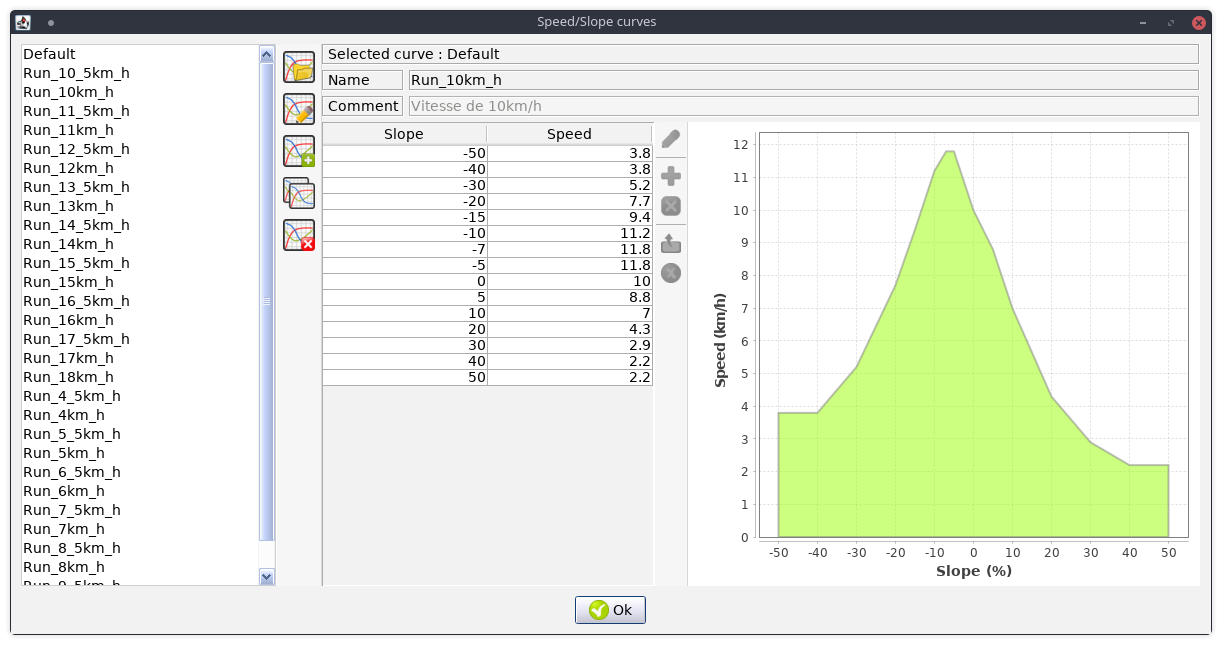
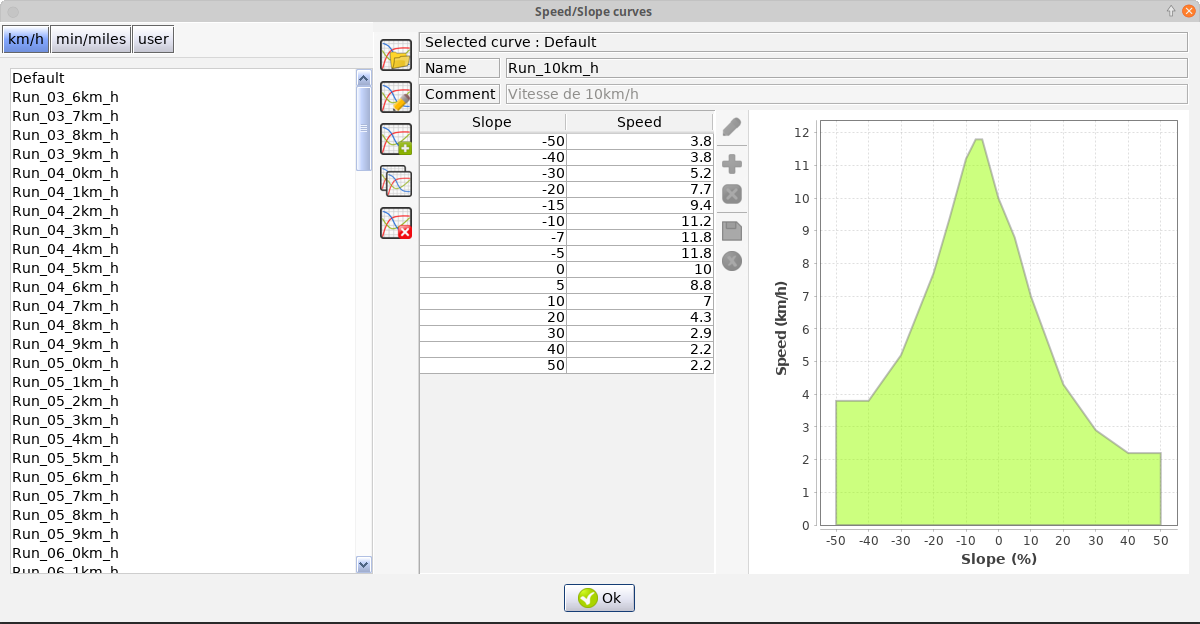
Doc modification search curve section

Changed region(s): [[0.0, 0.0, 1.0, 1.0], [0.2775, 0.883, 0.3083, 0.9439], [0.185, 0.883, 0.2467, 0.9135]]

diff --git a/doc/fr/md/04-Menus.md b/doc/fr/md/04-Menus.md
@@ -2,43 +2,46 @@
 
 ## Menu "Fichier"
 
-* **Ouvrir un fichier GPX** : Permet de charger un fichier au format GPX. Raccourci clavier: [MAJ+CTRL+O].
-
-* **Derniers fichiers GPX** : Permet l'affichage d'un sous-menu listant les 5 derniers fichiers GPX qui ont été ouvert. Un clic sur un de ces fichiers permet de l'ouvrir.
-
 * **Ouvrir un fichier CGX** : Permet de charger un fichier au format CGX. Raccourci clavier: [CTRL+O].
 
-* **Derniers fichiers CGX** : Permet l'affichage d'un sous-menu listant les 5 derniers fichiers CGX qui ont été ouvert. Un clic sur un de ces fichiers permet de l'ouvrir.
+* **Fichiers CGX récents...** : Permet l'affichage d'un sous-menu listant les 5 derniers fichiers CGX qui ont été ouvert. Un clic sur un de ces fichiers permet de l'ouvrir.
 
-* **Sauver CGX** : Permet de sauver les données du parcours au format CGX.
+* **Enregistrer en CGX** : Permet de sauver les données du parcours au format CGX.
 Toutes les données du parcours (difficultés, coefficient de fatigue, temps de ravitaillement....) sont sauvegardées. Raccourci clavier: [CTRL+S].
 
-* **Sauver GPX** : Permet de sauver les données du parcours au format GPX.
-Attention! Seules les données de latitude, de longitude, d'altitude et de temps sont sauvées.
-
-* **Sauver CSV** : Permet de sauver les données du parcours au format CSV.
-Ce fichier pourra être ouvert par un tableur comme Excel ou OpenOffice Calc.
-
-* **Importer un fichier GPX** : Permet d'insérer un fichier GPX au début ou à la fin du parcours actif.
-
-* **Importer un fichier CGX** : Permet d'insérer un fichier CGX au début ou à la fin du parcours actif.
-
-* **Sauver une partie du parcours en CGX** : Permet de sauver les lignes sélectionnées du tableau au format CGX.
+* **Enregistrer en CGX sous...** : Permet de sauver les données du parcours au format CGX. Une boite de dialogue permet de saisir le nom du fichier.
 Toutes les données du parcours (difficultés, coefficient de fatigue, temps de ravitaillement....) sont sauvegardées.
 
-* **Sauver une partie du parcours en GPX** : Permet de sauver les lignes sélectionnées du tableau au format GPX.
-Attention! Seules les données de latitude, de longitude, d'altitude et de temps sont sauvés.
+* **Ouvrir un fichier GPX** : Permet de charger un fichier au format GPX. Raccourci clavier: [MAJ+CTRL+O].
 
-* **Sauver une partie du parcours en CSV** : Permet de sauver les lignes sélectionnées du tableau au format CSV.
+* **Fichiers GPX récents...** : Permet l'affichage d'un sous-menu listant les 5 derniers fichiers GPX qui ont été ouvert. Un clic sur un de ces fichiers permet de l'ouvrir.
+
+* **Importer > Ajouter un fichier GPX au parcours** : Permet d'insérer un fichier GPX au début ou à la fin du parcours actif.
+
+* **Importer > Ajouter un fichier CGX au parcours** : Permet d'insérer un fichier CGX au début ou à la fin du parcours actif.
+
+* **Exporter > Exporter parcours en CSV** : Permet de sauver les données du parcours au format CSV.
 Ce fichier pourra être ouvert par un tableur comme Excel ou OpenOffice Calc.
 
-* **Importer des points** : Permet d'importer des points sauvegardés au format CGP.
+* **Exporter > Exporter parcours en GPX** : Permet de sauver les données du parcours au format GPX.
+Attention! Seules les données de latitude, de longitude, d'altitude et de temps sont sauvées.
 
-* **Exporter des points** : Permet de sauvegarder les points marqués dans un fichier au format CGP.
+* **Exporter > Sauver une partie du parcours en CGX** : Permet de sauver les lignes sélectionnées du tableau au format CGX.
+Toutes les données du parcours (difficultés, coefficient de fatigue, temps de ravitaillement....) sont sauvegardées.
 
-* **Exporter des tags en waypoints** : Permet de sauvegarder les tags sélectionnés dans un fichier GPX sous forme de waypoints. Cela permet d'avoir, sur les GPS, des informations complémentaires en plus des traces.
+* **Exporter > Sauver une partie du parcours en GPX** : Permet de sauver les lignes sélectionnées du tableau au format GPX.
+Attention! Seules les données de latitude, de longitude, d'altitude et de temps sont sauvés.
 
-* **Quitter Course Generator** : Permet d'arrêter l'exécution de **Course Generator**. raccourci clavier: [Alt+F4].
+* **Exporter > Sauver une partie du parcours en CSV** : Permet de sauver les lignes sélectionnées du tableau au format CSV.
+Ce fichier pourra être ouvert par un tableur comme Excel ou OpenOffice Calc.
+
+* **Marques > Importer...** : Permet d'importer des points sauvegardés au format CGP.
+
+* **Marques > Exporter...** : Permet de sauvegarder les points marqués dans un fichier au format CGP.
+
+* **Marques > Exporter comme waypoints** : Permet de sauvegarder les tags sélectionnés dans un fichier GPX sous forme de waypoints. Cela permet d'avoir, sur les GPS, des informations complémentaires en plus des traces.
+
+* **Quitter** : Permet d'arrêter l'exécution de **Course Generator**. raccourci clavier: [Alt+F4].
 
 ## Menu "Edition"
 
@@ -66,11 +69,15 @@ Ce fichier pourra être ouvert par un tableur comme Excel ou OpenOffice Calc.
 
 * **Définir un nouveau point de départ**: Permet, pour un circuit en boucle, de définir un nouveau point de départ.
 
+* **Filtrer les données d'altitude** : Ouvre une boite de dialogue permettant de corriger les altitudes en utilisant un filtre.
+
 * **Estimer le temps de parcours** : Permet de lancer le calcul afin de déterminer le temps de passage pour chaque point GPS du parcours. Raccourci clavier: [F5].
 
-* **Mise à jour des courbes standards** : Les courbes standards "Vitesse/Pente" vont être mise à jour avec les réglages par défaut. Cela est nécessaire si vous avez modifié une courbe standard et que vous voulez revenir en arrière. Cela est aussi nécessaire après une mise à jour logicielle qui introduit de nouvelles courbes. Cela n'affecte pas les courbes personnalisées.
+* **Rechercher  la courbe 'Vitesse/Pente' en fonction du temps final** : Ouvre une boite dialogue où, à partir du temps final voulu, le logiciel sélectionne la meilleure courbe 'Vitesse/Pente'.
 
 * **Afficher le répertoire contenant les fichiers courbes vitesse/pente** : Ouvre l'explorateur de fichier et affiche le répertoire correspondant.
+
+* **Afficher le répertoire contenant les 'logs'** : Ouvre l'explorateur de fichier et affiche le répertoire correspondant.
 
 ## Menu "Paramètres"
 

diff --git a/doc/en/md/04-Menus.md b/doc/en/md/04-Menus.md
@@ -1,43 +1,46 @@
 # Menus
 ## "File" Menu
 
-* **Open GPX** : Loads a GPX format file. Keyboard shortcut: [MAJ+CTRL+O].
-
-* **Recent GPX files** : Displays a list of the last 5 GPX files that have been loaded. Clicking on one of those files will load them again.
-
 * **Open CGX** : Loads a CGX format file. Keyboard shortcut: [CTRL+O].
 
-* **Recent CGX files** : Displays a list of the last 5 CGX files that have been loaded. Clicking on one of those files will load them again.
+* **Recent CGX files...** : Displays a list of the last 5 CGX files that have been loaded. Clicking on one of those files will load them again.
 
 * **Save as CGX** : Saves the course data in CGX format.
 All the course data (difficulty, fatigue coefficient, aid station time...) will be saved. Keyboard shortcut: [CTRL+S].
 
-* **Save as GPX** : Saves the course data in GPX format.
-Warning! Only latitude, longitude and altitude data will be saved.
+* **Save as CGX as...** : Saves the course data in CGX format. A dialog allow to enter the file name.
+All the course data (difficulty, fatigue coefficient, aid station time...) will be saved.
 
-* **Save as CSV** : Saves the course data in CSV format.
+* **Open GPX** : Loads a GPX format file. Keyboard shortcut: [MAJ+CTRL+O].
+
+* **Recent GPX files...** : Displays a list of the last 5 GPX files that have been loaded. Clicking on one of those files will load them again.
+
+* **Import > Add a GPX file to the track** : Imports a GPX file at the beginning or end of the current course.
+
+* **Import > Add a CGX file to the track** : Imports a CGX file at the beginning or end of the current course.
+
+* **Export > Export track as CSV** : Saves the course data in CSV format.
 The saved file can be opened by a spreadsheet such as Excel or LibreOffice Calc.
 
-* **Import a GPX file** : Imports a GPX file at the beginning or end of the current course.
+* **Export > Export track as GPX** : Saves the course data in GPX format.
+Warning! Only latitude, longitude and altitude data will be saved.
 
-* **Import a CGX file** : Imports a CGX file at the beginning or end of the current course.
-
-* **Save selection as CGX** : Saves the selected line(s) in a CGX file.
+* **Export > Save selection as CGX** : Saves the selected line(s) in a CGX file.
 All the course data (difficulties, fatigue coefficient, aid station time....) will be saved.
 
-* **Save selection as GPX** : Saves the selected lines in a GPX file.
+* **Export > Save selection as GPX** : Saves the selected lines in a GPX file.
 Warning! Only latitude, longitude and altitude data will be saved.
 
-* **Save selection as CSV** : Saves the selected lines in a CSV file.
+* **Export > Save selection as CSV** : Saves the selected lines in a CSV file.
 The saved file can be opened by a spreadsheet such as Excel or LibreOffice Calc.
 
-* **Import points** : Imports waypoints as CGP format.
+* **Tags > Import** : Imports waypoints as CGP format.
 
-* **Export points** : Saves the selected waypoints in a CGP file.
+* **Tags > Export** : Saves the selected waypoints in a CGP file.
 
-* **Export tags as waypoints** : Saves the selected tags as waypoints in a GPX file. This allows to benefitiate, when using a GPS device, additional information on top of the course.
+* **Tags > Export as waypoints** : Saves the selected tags as waypoints in a GPX file. This allows to benefitiate, when using a GPS device, additional information on top of the course.
 
-* **Exit Course Generator** : Exits **Course Generator**. Keyboard shortcut: [Alt+F4].
+* **Exit** : Exits **Course Generator**. Keyboard shortcut: [Alt+F4].
 
 ## "Edit" Menu 
 
@@ -65,11 +68,15 @@ The saved file can be opened by a spreadsheet such as Excel or LibreOffice Calc.
 
 * **Define a new start**: For a given course as a loop, sets the selected point as the start of the course.
 
+* **Smooth elevation data** : Open a dialog box where you can smooth the elevation data of the track.
+
 * **Estimate track time** : Compute the estimated time for each of the course's points. Keyboard shortcut: [F5].
 
-* **Update standard curves** : The standard "Speed/Slope" will be updated with standard settings. It's necessary to use this menu if you modified a standard curve and you want to retrieve the standard settings. It's also necessary after a software update that introduce new standard curves. It doesn't affect the custom curves.
+* **Search 'Speed/Slope' curve from the final time** : Open a dialog box where, from the final expected time, the software will select the best 'Speed/Slope' curve.
 
 * **Open the "Speed/Slope" folder** : Opens the folder containing the speed curve files in File Explorer.
+
+* **Open the "Logs" folder** : Opens the folder containing the logs files in File Explorer.
 
 ## "Parameters" Menu 
 

diff --git a/doc/fr/md/02-Principle.md b/doc/fr/md/02-Principle.md
@@ -37,7 +37,7 @@ Le diagramme ci-dessous montre le principe de fonctionnement de **Course Generat
 
 Les cas d’utilisation suivant pourraient être envisagés (liste non exhaustive) :
 
-* Préparer une course. Après avoir téléchargé le parcours vous allez ajuster vos paramètres, ajuster la "qualité" du terrain, indiqué les lieux de ravitaillements et les temps d'arrêts prévus, ajouter des commentaires et bien d'autres choses. Au final, **Course Generator** va calculer votre temps de passage pour chaque point. Cela vous permettra d'avoir vos temps de passage, des statistiques (par exemple temps passé à plus de 2000m de nuit) et de générer un mini-roadbook.  
+* Préparer une course. Après avoir téléchargé le parcours vous allez ajuster vos paramètres, ajuster la "qualité" du terrain, indiqué les lieux de ravitaillements et les temps d'arrêts prévus, ajouter des commentaires et bien d'autres choses. Au final, **Course Generator** va calculer votre temps de passage pour chaque point. Cela vous permettra d'avoir vos temps de passage, des statistiques (par exemple le temps passé à plus de 2000m de nuit) et de générer un mini-roadbook.  
 * La diffusion par l'organisateur d'une course d'un parcours dans lequel il aurait indiqué la « qualité » du terrain, les ravitaillements, les cols ainsi que les barrières horaires.
 * La génération d’un fichier GPX avec les données temporelles pré-calculées afin d’utiliser le partenaire virtuel des GPS GARMIN. Cela permet d'avoir un partenaire virtuel qui court avec vous. Si vous avez choisi les bons paramètres, il vous sera possible de courir à ses côtés. Cette fonction permet aussi d'afficher votre position et celle partenaire sur le parcours et sur le profil du parcours. Elle vous donne le temps de parcours restant ainsi que le kilométrage restant. C'est très pratique pour gérer votre effort. La capture d’écran ci-dessous vous montre l’affichage du profil en mode partenaire virtuel sur un Forerunner 205/305. Le point foncé c'est vous et le point clair c'est le partenaire virtuel.
 

diff --git a/doc/fr/md/08-Use.md b/doc/fr/md/08-Use.md
@@ -52,7 +52,12 @@ Si vous avez sélectionné la prise en compte de la nuit, vous pourrez constater
 
 ## Paramétrer la courbe de vitesse/pente
 
-Afin d'avoir une durée de parcours cohérente avec votre niveau, il faut choisir ou créer une courbe de vitesse par rapport à la pente. Cette courbe va de -50% de pente (descente) à +50% de pente (montée). Le choix de la courbe se fait par le choix de la vitesse que l'on veut "tenir" lorsque la pente est nulle (0%) sur un terrain goudronné. Un ensemble de courbes ont été créée afin de couvrir la plupart des utilisations en course à pied.
+Afin d'avoir une durée de parcours cohérente avec votre niveau, il faut choisir ou créer une courbe de vitesse par rapport à la pente. Cette courbe va de -50% de pente (descente) à +50% de pente (montée). Le choix de la courbe se fait par le choix de la vitesse que l'on veut "tenir" lorsque la pente est nulle (0%) sur un terrain goudronné. 
+Les courbes sont réparties en 3 groupes :
+
+* Les courbes "km/h" sont des courbes standards non-modifiable en 'km/h' couvrant la plage de 3.6km/h à 18km/h.
+* Les courbes "min/miles" sont des courbes standards non-modifiable en 'min/miles' couvrant la plage de 5min30s/miles à 24min/miles.
+* Les courbes "user" sont les courbes que vous avez créée. Si vous dupliquez une courbe standard, la nouvelle courbe se trouvera dans l'onglet "user". Les fichiers courbes "user" sont accessible par le menu "Outils > Afficher le répertoire contenant les courbes 'Vitesse/Pente'"
 
 Le menu "Paramètres>Courbes Vitesse/Pente..." ou le bouton ![](./images/Toolbar/chart_curve.png) permettent d'afficher la boite de dialogue permettant de sélectionner et gérer les courbes.  
 ![](./images/Curve/CG40_Dlg_Curves.png)

diff --git a/doc/fr/md/09-Advanced_use.md b/doc/fr/md/09-Advanced_use.md
@@ -257,6 +257,24 @@ La procédure est la suivante:
 
 Après l'opération il est nécessaire de redéfinir les coefficients de fatigues et les barrières horaires puis de relancer un calcul (bouton ![](./images/Toolbar/refresh.png) ou [F5]).
 
+## Déterminer la meilleure courbe "Vitesse/Pente" à partir du temps final
+
+Le menu "Outils>Rechercher la courbe 'Vitesse/Pente' en fonction du temps final" permet à partir du temps final que vous voulez réaliser de trouver la courbe 'Vitesse/Pente' la plus adaptée.
+
+![](./images/CG40_Search_Curve.png)
+
+Vous saisissez le temps final que vous voulez réaliser (heure:minute:seconde) puis vous appuyez sur le bouton de recherche.
+
+**Course Generator** va rechercher la meilleure courbe. La plupart du temps le logiciel ne va pas trouver exactement la courbe qui correspond à votre attente et va vous indiquer les courbes en-dessous et au-dessus de votre temps cible.
+Pour chaque courbe, vous aurez le temps estimé.
+Vous pouvez alors :
+
+* Sélectionner la courbe en-dessous du temps cible avec le bouton "Sélection"
+* Sélectionner la courbe au-dessus du temps cible avec le bouton "Sélection"
+* Sortir de la boite de dialogue avec le bouton "Annuler"
+
+L'appuie sur un des boutons "Sélection" va sélectionner la courbe correspondante. Elle sera utilisée lors de vos prochain calcul.
+
 ## Les paramètres généraux de Course Generator
 
 Le menu "Paramètres>Paramètres de Course Generator" affiche la fenêtre de configuration du logiciel.

diff --git a/doc/fr/md/01-Introduction.md b/doc/fr/md/01-Introduction.md
@@ -17,6 +17,7 @@
 * De définir un nouveau point de départ pour un circuit en boucle,
 * D’insérer un parcours au début ou à la fin d’un autre parcours,
 * D'extraire une partie du parcours,
+* Déterminer à partir d'un cible la courbe vitesse/pente correspondante,
 * De sauvegarder le tracé modifié, contenant les temps de parcours calculés, au format GPX. Cela vous permettra, par exemple, d'utiliser la fonction "Partenaire virtuel" des GPS GARMIN,
 * De sauvegarder le tracé au format CGX qui est le format de sauvegarde de **Course Generator** afin de pouvoir échange des tracés tout en conservant les données sur le terrain, les commentaires...
 
@@ -54,4 +55,4 @@ Pierre DELORE
 
 ## Protection des données personnelles
 
-Le logiciel collecte dans les logs des informations sur votre configuration matérielle et logicielle. Ces données sont dans le répertoire 'logs' qui est accessible via le menu "Outils>Afficher le répertoire contenant les fichiers courbes vitesse/pente". Rien de sort de votre ordinateur. C'est uniquement en cas de problème que je vais vous demander de m'envoyer les fichiers 'logs'.
+Le logiciel collecte dans les logs des informations sur votre configuration matérielle et logicielle. Ces données sont dans le répertoire 'logs' qui est accessible via le menu "Outils>Afficher le répertoire contenant les logs". Rien de sort de votre ordinateur. C'est uniquement en cas de problème que je vais vous demander de m'envoyer les fichiers 'logs'.

diff --git a/doc/en/md/08-Use.md b/doc/en/md/08-Use.md
@@ -55,7 +55,12 @@ If you have chosen to take into account the night effect, you will see that :
 
 ## Set the speed/slope curve
 
-In order to have a track time consistent with your speed, you have to choose or create a speed curve according to the slope. This curve goes from -50% slope (downhill) to + 50% slope (climb). The choice of the curve is made by the choice of the speed that one wants to "hold" when the slope is null (0%) on a road. A set of curves has been created to cover most running speeds.
+In order to have a track time consistent with your speed, you have to choose or create a speed curve according to the slope. This curve goes from -50% slope (downhill) to + 50% slope (climb). The choice of the curve is made by the choice of the speed that one wants to "hold" when the slope is null (0%) on a road. 
+The curves are divided into 3 groups :
+
+* The "km/h" curves are standard read-only curves within the range 3.6km/h to 18km/h.
+* The "min/miles" curves are standard read-only curves within the range 5min30s/miles to 24min/miles.
+* The "user" curves that you create. If you duplicate a standard curve, the new curve will be in the "user" tab. You can access to the "user" curve files with the menu "Tools > Open the "Speed/Slope" curves folder".
 
 The menu "Settings>Speed/Slope curves..." or the button ![curve button](./images/Toolbar/chart_curve.png) will display the dialog box for selecting and managing curves.
 

diff --git a/doc/en/md/01-Introduction.md b/doc/en/md/01-Introduction.md
@@ -17,6 +17,8 @@
 * Set a new starting point for a loop track,
 * Insert a track at the beginning or at the end of another track,
 * To extract part of the track,
+* To determine from a finish time the speed/slope curve,
+* vitesse/pente correspondante,
 * To save the modified track, containing calculated track times, in GPX format. This will allow you, for example, to use the "Virtual Partner" function of GARMIN GPS,
 * Save the track in CGX format which is the backup format of **Course Generator** in order to be able to exchange tracks while keeping the ground data, markers, the comments ...
 
@@ -52,4 +54,4 @@ Pierre DELORE
 
 ## Personal data protection
 
-The software collects information about your hardware and software configuration in the logs. These data are in the 'logs' directory which can be accessed via the menu "Tools> Open the "Speed/Slope" folder". Nothing exits from your computer. It is only in case of problem that I will ask you to send me the 'logs' files.
+The software collects information about your hardware and software configuration in the logs. These data are in the 'logs' directory which can be accessed via the menu "Tools> Open the "Logs" folder". Nothing is sent outside from your computer. It is only in case of problem that I will ask you to send me the 'logs' files.

diff --git a/doc/en/md/09-Advanced_use.md b/doc/en/md/09-Advanced_use.md
@@ -257,6 +257,24 @@ The procedure is as follows:
 
 After the operation it is necessary to redefine the fatigue coefficients and cut-off times and then restart a calculation (button ![](./images/Toolbar/refresh.png) or [F5]).
 
+## Find the best "Speed/Slope" curve from the final time
+
+Le menu "Tools>Search "Speed/Slope" curve from the final time" allow to find the best curve from the final time.
+
+![](./images/CG40_Search_Curve.png)
+
+You enter the final time (hour:minute:second) then you press the search button.
+
+**Course Generator** will search the best curve. Most of the time the software will not find the exact curve and it will show the curve bellow and over your final time. For every curve, you will have the estimated time.
+The you can :
+
+* Select the curve bellow the final time withe the "Select" button
+* Select the curve over the final time withe the "Select" button
+* Exit from the dialog box with the "Cancel" button
+
+The press o one "Select" button will select the the corresponding curve. It will be used for your next calculation.
+
+
 ## The general parameters of Course Generator
 
 Le menu "Paramètres>Paramètres de Course Generator" affiche la fenêtre de configuration du logiciel.

diff --git a/doc/fr/md/06-Statusbar.md b/doc/fr/md/06-Statusbar.md
@@ -7,7 +7,7 @@ Située sur le bas de la fenêtre elle affiche les informations sur l'applicatio
 * ![](./images/Statusbar/CG40_Statusbar_Ascend.png) : Dénivelé positif total du parcours.
 * ![](./images/Statusbar/CG40_Statusbar_Descend.png) :  Dénivelé négatif total du parcours.
 * ![](./images/Statusbar/CG40_Statusbar_Time.png) : Temps total pour réaliser le parcours.
-* ![](./images/Statusbar/CG40_Statusbar_Curve.png) : Courbe 'Vitesse/Pente' sélectionnée.
+* ![](./images/Statusbar/CG40_Statusbar_Curve.png) : Courbe 'Vitesse/Pente' sélectionnée. Un clic sur cette zone la boite de dialogue de choix des courbes.
 * ![](./images/Statusbar/CG40_Statusbar_Timelimit.png) : Indique qu'une barrière horaire a été dépassée à un endroit du parcours. Un clic sur cet indicateur positionne la sélection du tableau sur la première ligne concernée.
 * ![](./images/Statusbar/CG40_Statusbar_Modified.png) : Le parcours a été modifié. Il est nécessaire de le sauvegarder.
 * ![](./images/Statusbar/CG40_Statusbar_Calc.png) : Le parcours a été modifié. Il est nécessaire de relancer le calcul (bouton ![](./images/Toolbar/refresh.png) ou [F5]).
